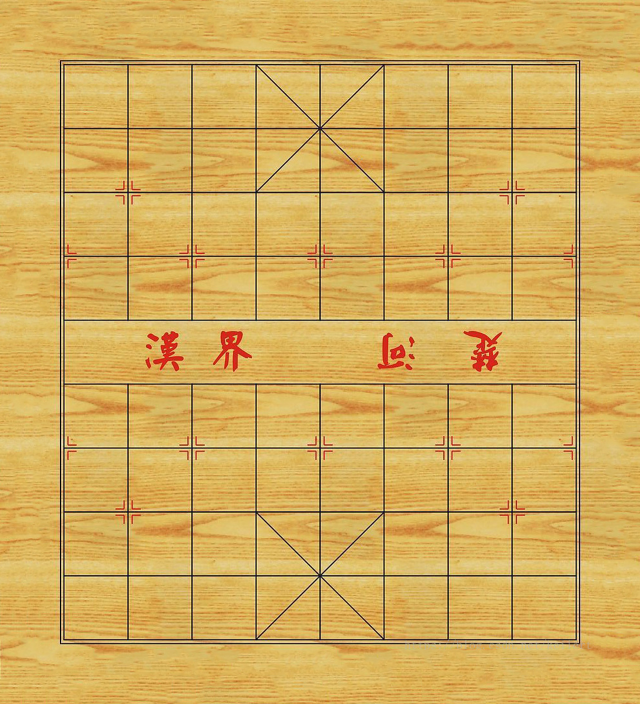
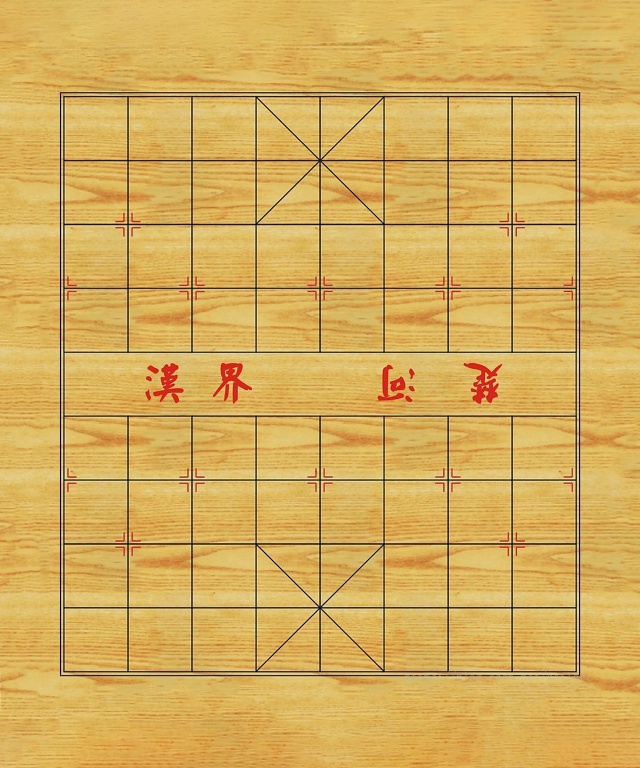
修改背景图片大小，添加坐标

diff --git a/src/apps/chinese_chess/canvas.ts b/src/apps/chinese_chess/canvas.ts
@@ -38,10 +38,36 @@ export default class Canvas {
   public static draw (board: string[][]): string {
     const bit = 64
     const bg = this.images.get('bg')!
-    const canvas = createCanvas(bit * 10, bit * 11)
+    const canvas = createCanvas(bit * 10, bit * 12)
     const ctx = canvas.getContext('2d')
-    ctx.drawImage(bg, 0, 0, bit * 10, bit * 11)
-    ctx.translate(bit / 2, bit / 2)
+    ctx.drawImage(bg, 0, 0, bit * 10, bit * 12)
+    // 画入通用坐标
+    // const str = 'ABCDEFGHIJ'
+    ctx.font = '30px sans-serif'
+    ctx.fillStyle = '#1e9eb3'
+    for (let i = 0; i < board.length; i++) {
+      const str = String(i)
+      const sy = bit * (11 - i) - 10
+      ctx.fillText(str, bit / 4, sy)
+      ctx.fillText(str, canvas.width - bit / 2, sy)
+    }
+    let str = ' ABCDEFGHIJ'
+    for (let i = 1; i <= board[0].length; i++) {
+      const text = str[i]
+      const sx = bit * i - 10
+      ctx.fillText(text, sx, bit)
+      ctx.fillText(text, sx, canvas.height - bit / 2)
+    }
+    // 画入专业术语坐标
+    ctx.fillStyle = '#f1441d'
+    str = ' 九八七六五四三二一'
+    for (let i = 1; i <= board[0].length; i++) {
+      const sx = bit * i - 10
+      ctx.fillText(String(i), sx, bit / 2)
+      ctx.fillText(str[i], sx - 5, canvas.height - 5)
+    }
+    // 移动初始位置
+    ctx.translate(bit / 2, bit)
     for (let i = 0; i < board.length; i++) {
       for (let j = 0; j < board[i].length; j++) {
         const char = board[i][j]
